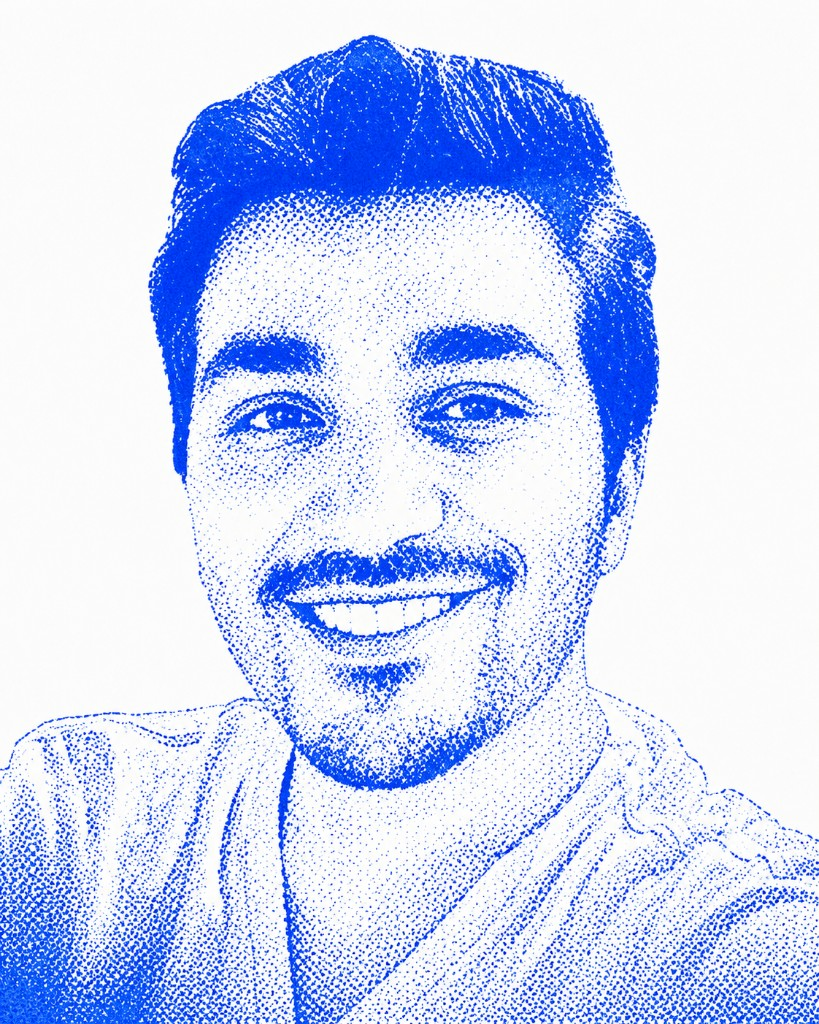
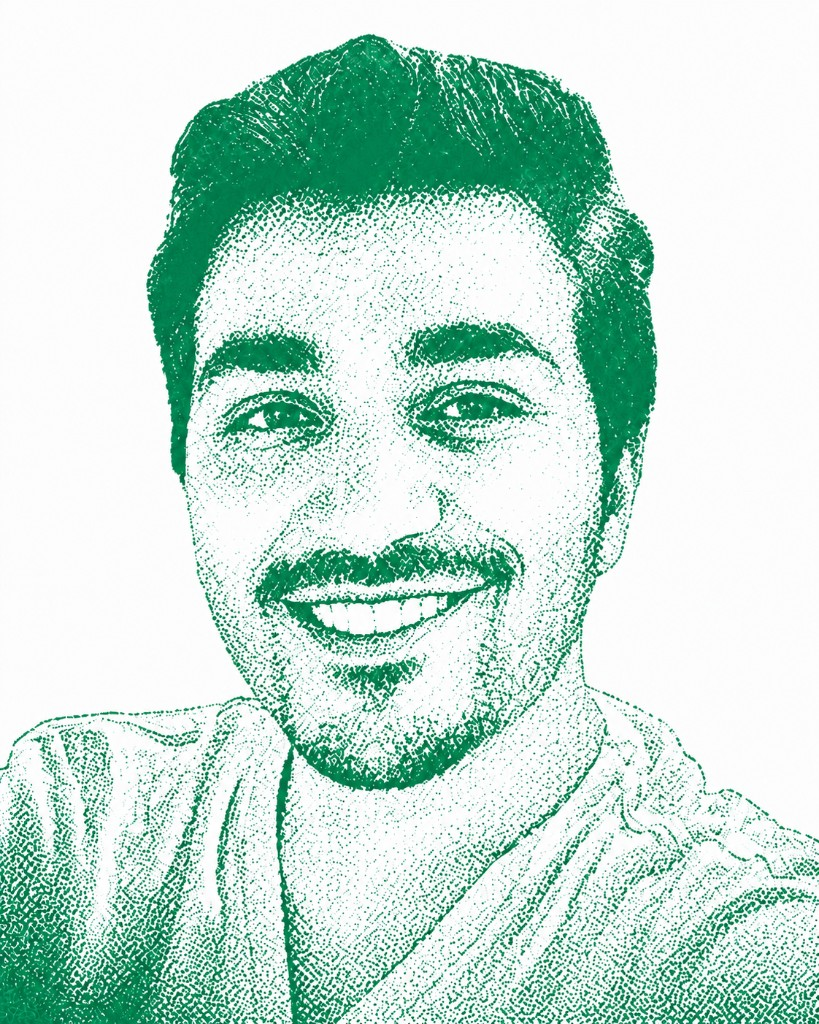
Update founder portrait and drop redundant CSS treatment.
The new portrait is already green stipple, so remove hue-rotate filter and halftone overlay that double-processed the image.

diff --git a/components/FounderMessageSection.tsx b/components/FounderMessageSection.tsx
@@ -1,6 +1,6 @@
 'use client';
 
-import { useEffect, type CSSProperties } from 'react';
+import { useEffect } from 'react';
 import Image from 'next/image';
 import { ArrowRight } from 'lucide-react';
 import { motion } from 'framer-motion';
@@ -8,17 +8,6 @@ import PixelButton from '@/components/ui/PixelButton';
 
 const ease = [0.22, 1, 0.36, 1] as const;
 const getCalApiImport = () => import('@calcom/embed-react').then((mod) => mod.getCalApi);
-
-const TROOPER_GREEN = 'rgba(63, 107, 0, 0.4)';
-const PORTRAIT_FILTER =
-  'grayscale(100%) brightness(0.92) sepia(100%) hue-rotate(244deg) saturate(85%)';
-
-const STIPPLE_OVERLAY: CSSProperties = {
-  backgroundImage: `linear-gradient(45deg, ${TROOPER_GREEN} 25%, transparent 25%, transparent 75%, ${TROOPER_GREEN} 75%), linear-gradient(45deg, ${TROOPER_GREEN} 25%, transparent 25%, transparent 75%, ${TROOPER_GREEN} 75%)`,
-  backgroundSize: '4px 4px',
-  backgroundPosition: '0 0, 2px 2px',
-  imageRendering: 'pixelated',
-};
 
 export default function FounderMessageSection() {
   useEffect(() => {
@@ -59,13 +48,8 @@ export default function FounderMessageSection() {
               alt="Vaibhav, founder of Trooper"
               fill
               className="object-cover object-center"
-              style={{ filter: PORTRAIT_FILTER }}
               sizes="(max-width: 768px) 14rem, 22rem"
               priority={false}
-            />
-            <div
-              className="absolute inset-0 mix-blend-multiply pointer-events-none"
-              style={STIPPLE_OVERLAY}
             />
           </div>
 
